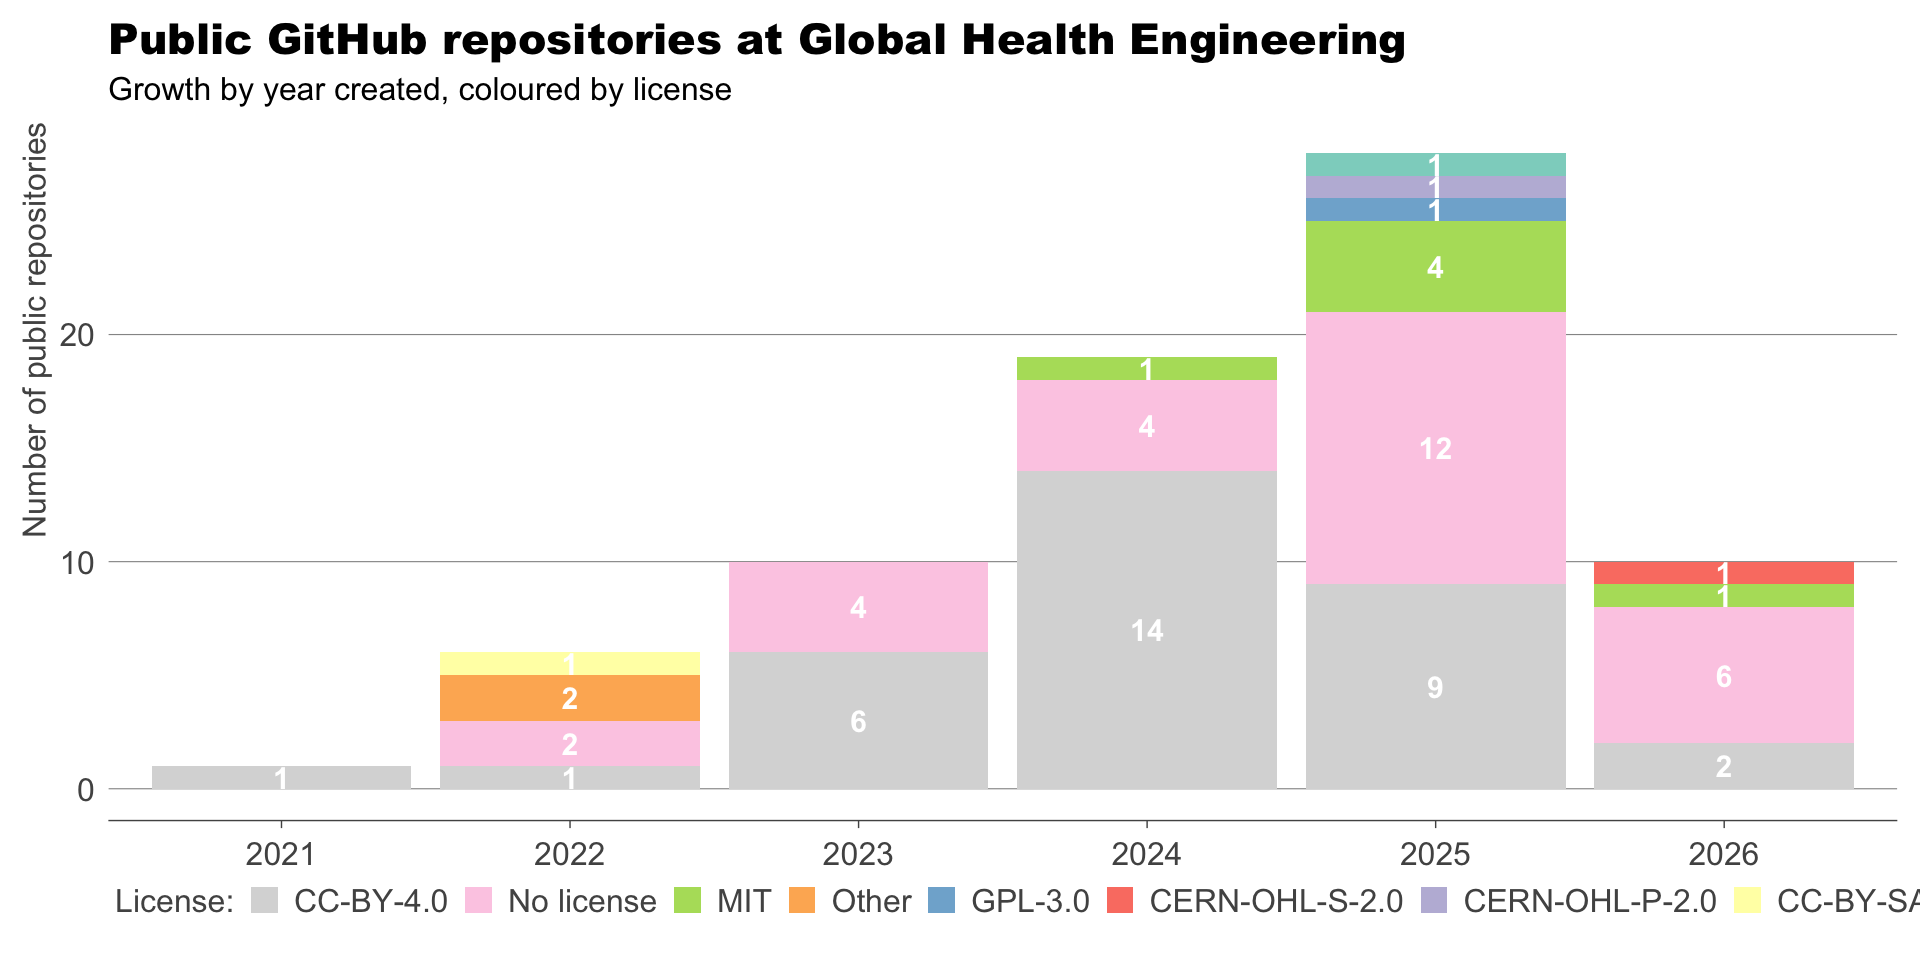
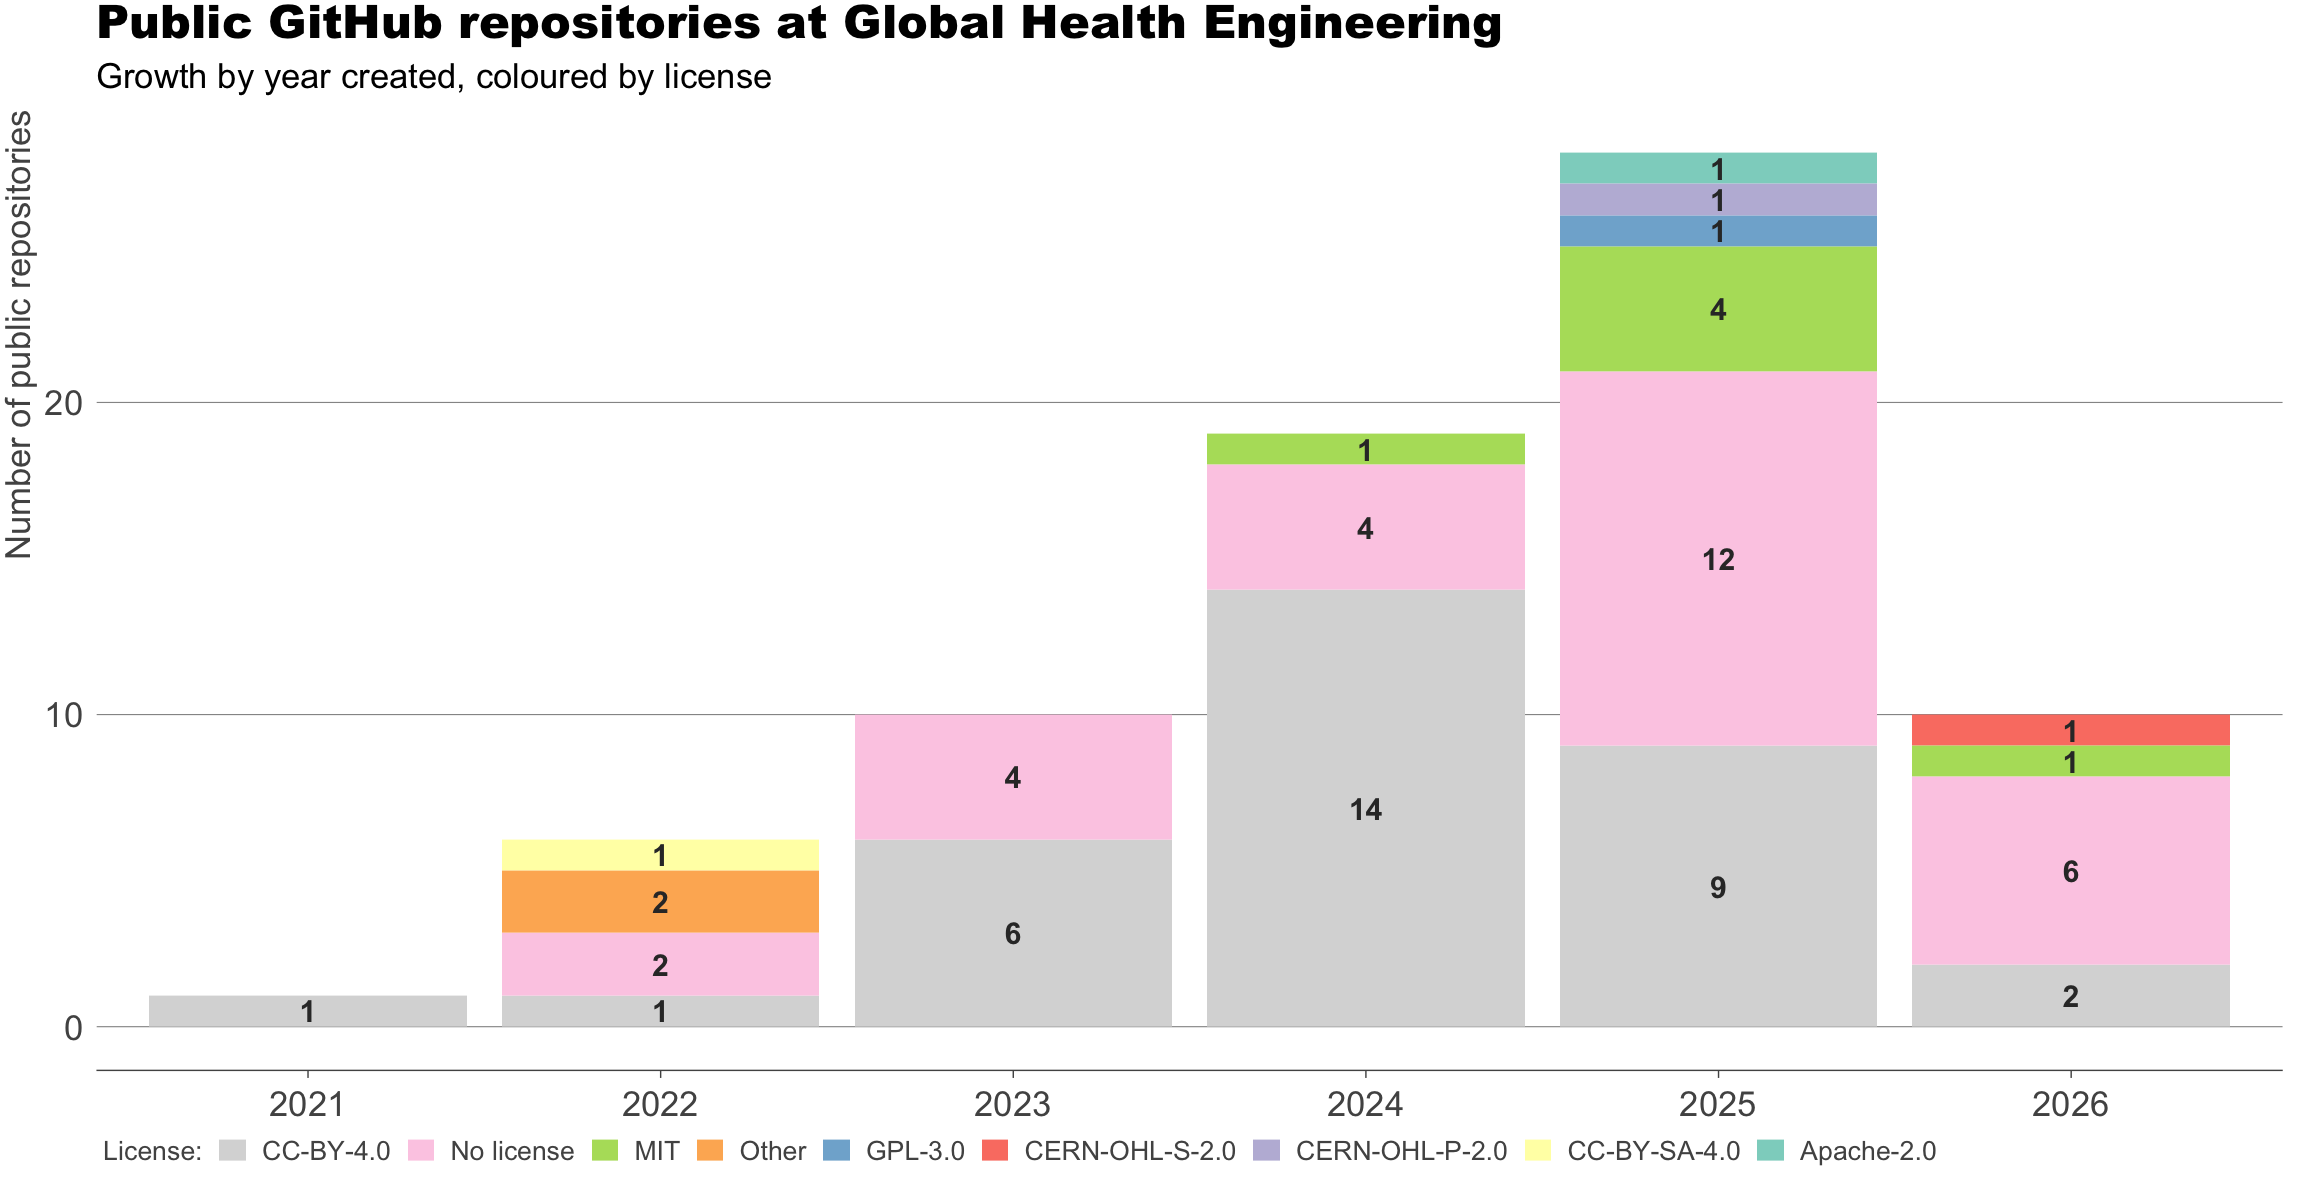
docs(slides): polish ReproducibiliTea deck content and link styling
- Add SwissRN affiliation and slides URL to title slide
- Fix broken "Me (2022)" heading and center the gif
- Highlight (2016) on FAIR principles, link data page on findable slide
- Smaller title and dark grey bar labels on Open work plot for legibility
- Stepwise reveals and condensed footer on "Making our own work visible"
- Add .small-title class and stronger link styling (blue + underline)

diff --git a/slides/slides.scss b/slides/slides.scss
@@ -9,7 +9,7 @@
 $font-family-sans-serif: "Atkinson Hyperlegible", sans-serif;
 $font-family-monospace: "Source Code Pro", monospace;
 $body-bg: #fff;
-$link-color: #888075;
+$link-color: #0F4C81;
 $presentation-heading-color: #5c5751;
 $code-color: #ED6D37; 
 $code-bg: #F5F5F5;
@@ -22,6 +22,16 @@ $presentation-font-size-root: 36px !default;
 
 #title-slide .title {
   font-size: 1.5em;
+}
+
+#title-slide a {
+  color: #0F4C81;
+  text-decoration: underline;
+  text-underline-offset: 0.15em;
+}
+
+#title-slide a:hover {
+  color: #ED6D37;
 }
 
 .reveal .slide blockquote {
@@ -144,4 +154,20 @@ $presentation-font-size-root: 36px !default;
 /* Center class for general use */
 .reveal .center {
   text-align: center;
+}
+
+/* Compact slide title to free vertical space for content */
+.reveal .small-title h2 {
+  font-size: 0.8em;
+  margin-bottom: 0.2em;
+}
+
+/* Stronger hyperlink styling for legibility */
+.reveal a {
+  text-decoration: underline;
+  text-underline-offset: 0.15em;
+}
+
+.reveal a:hover {
+  color: #ED6D37;
 }